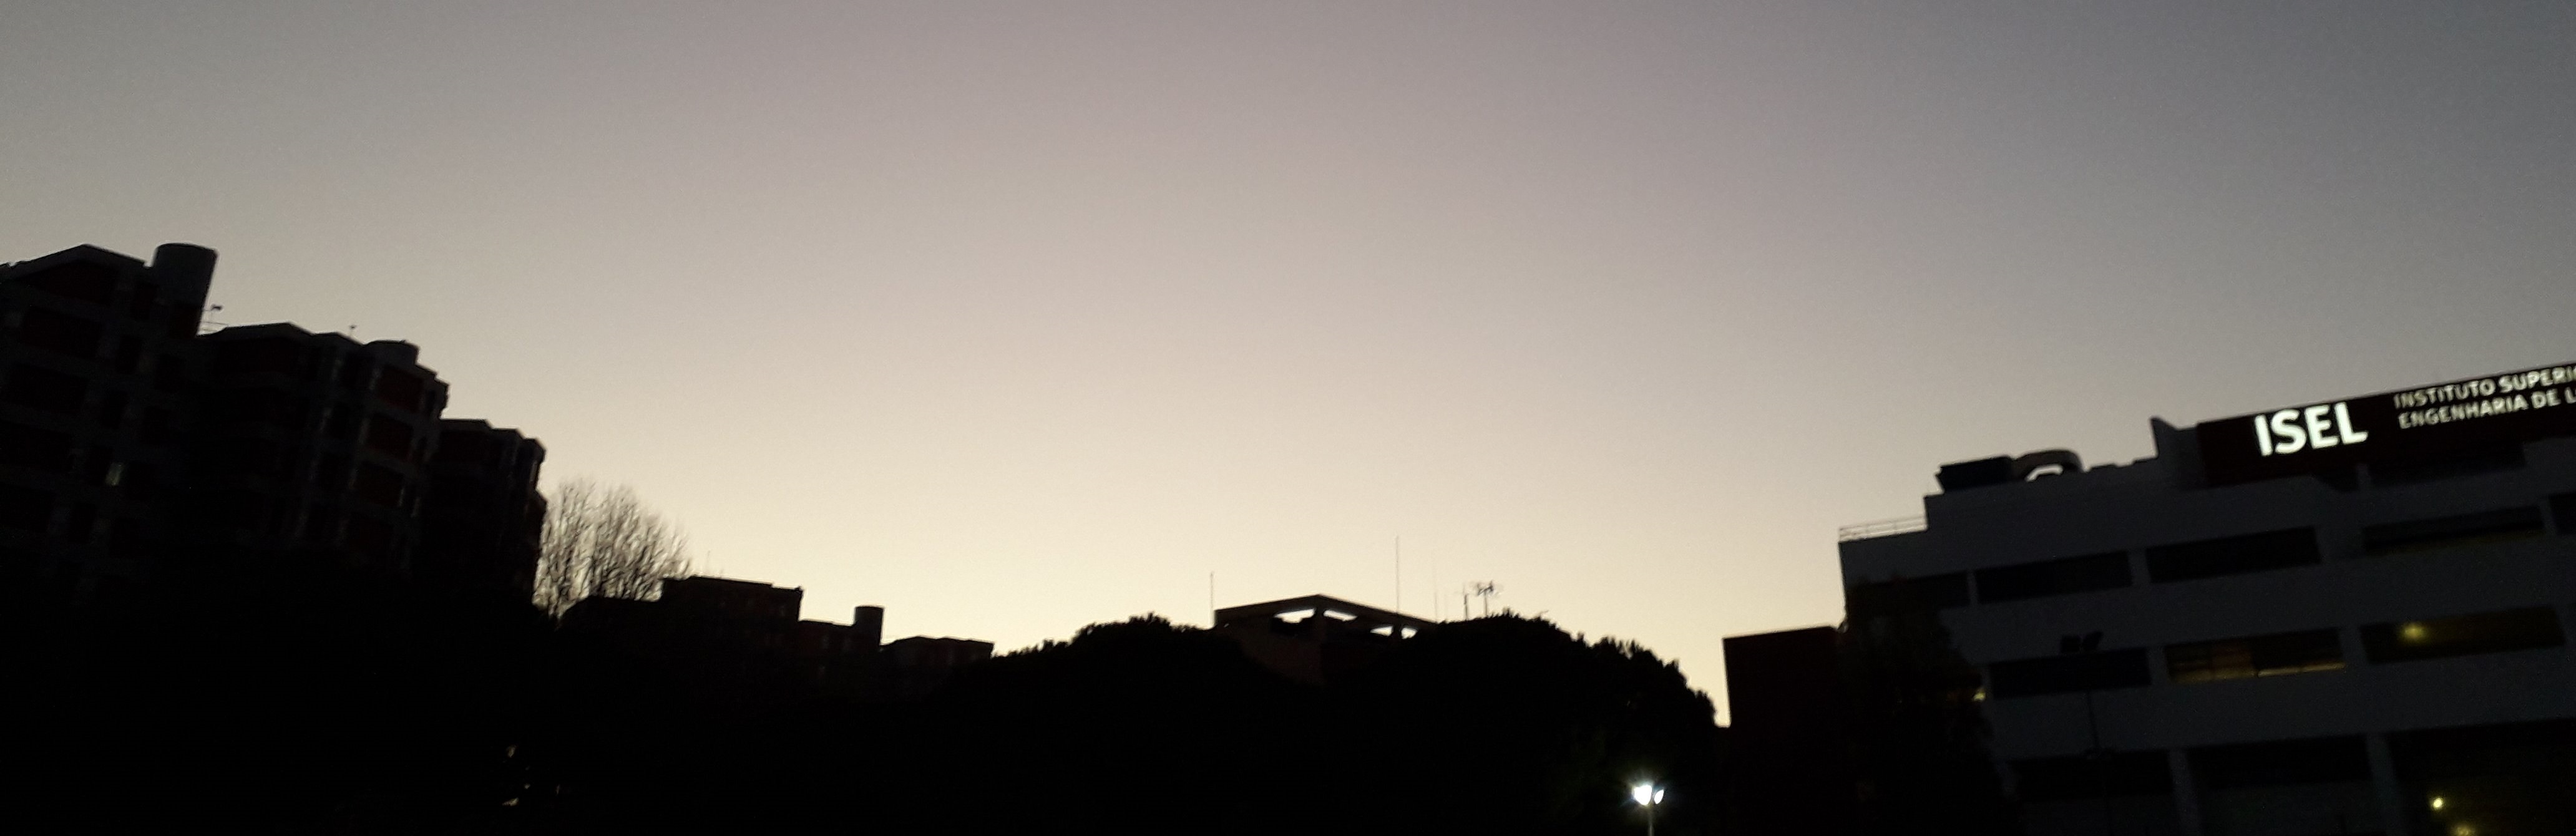
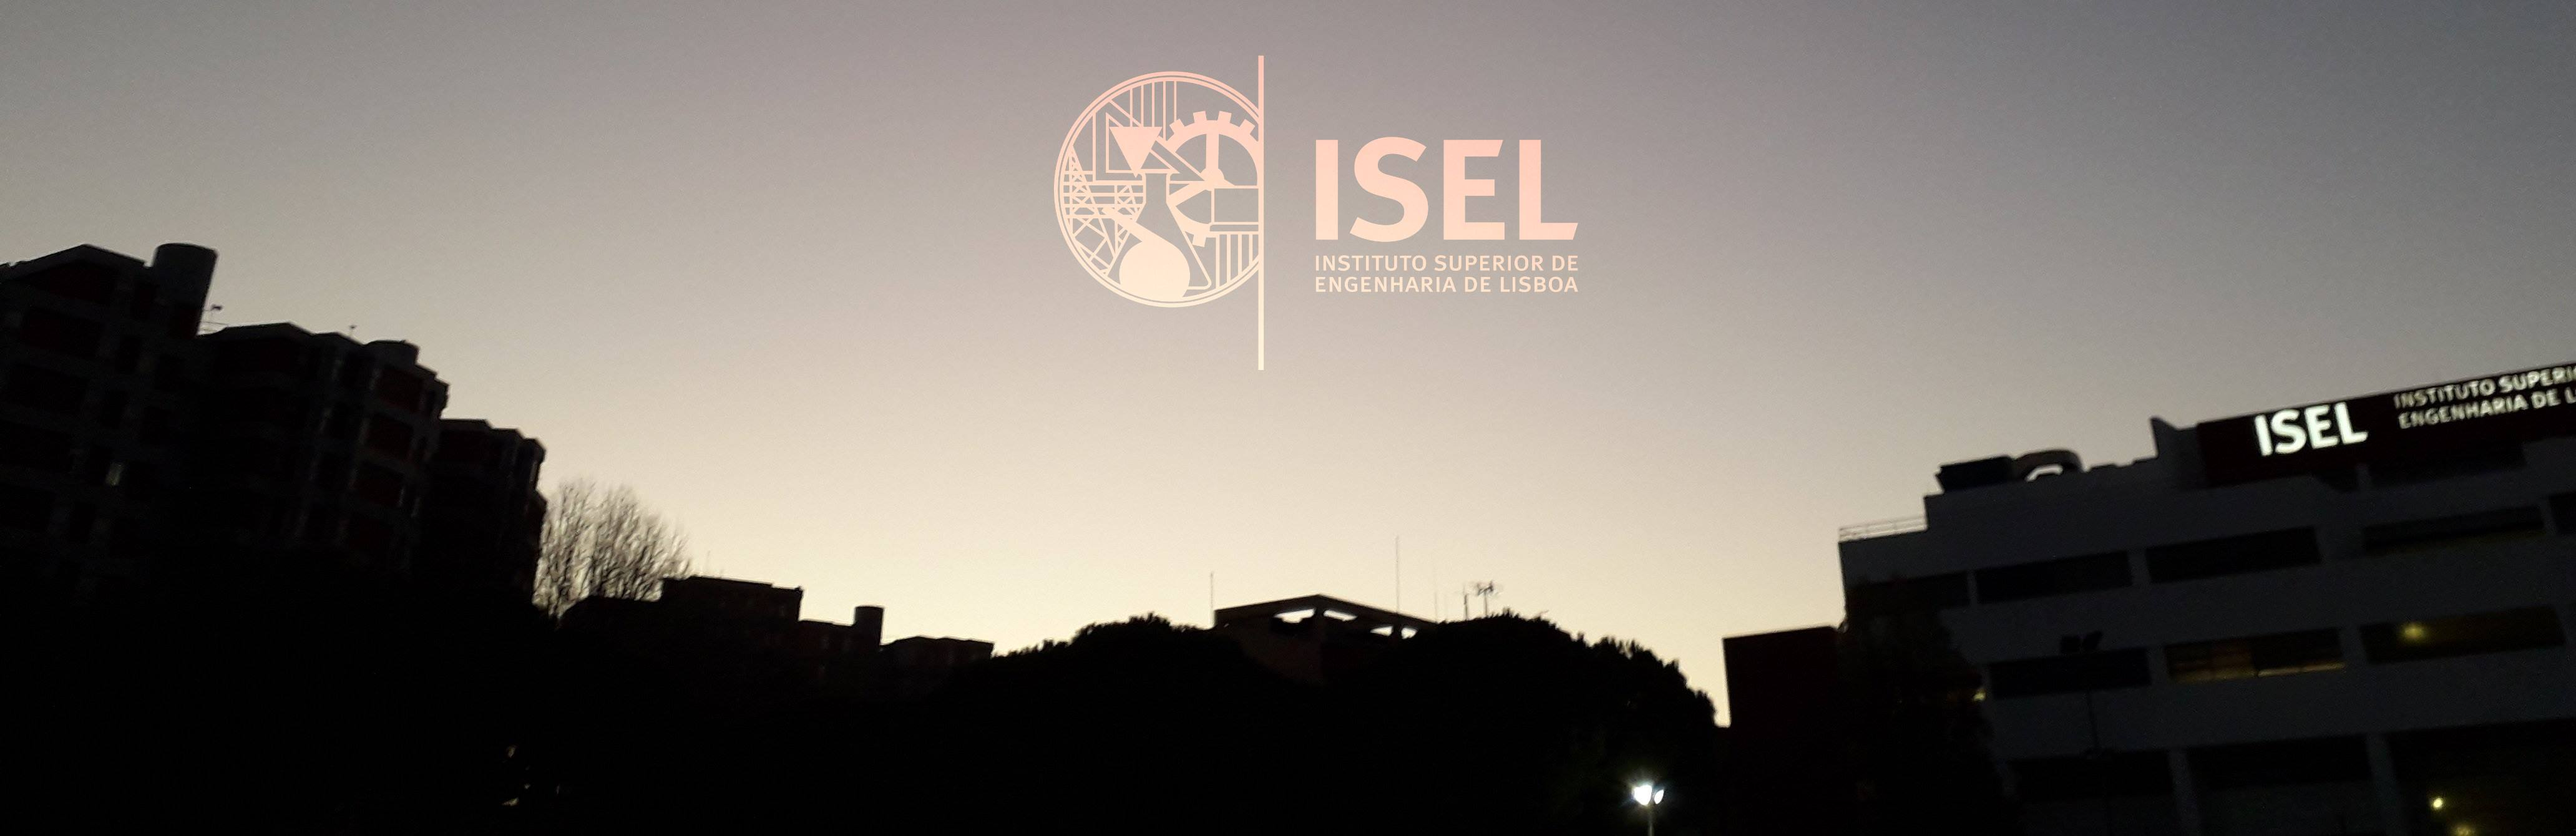
7 - github nao gosta que se use css no markdown...

Changed region(s): [[0.4062, 0.0612, 0.625, 0.3672]]

diff --git a/README.md b/README.md
@@ -4,13 +4,9 @@
 4. Estão à vontade para fazer pull requests
 5. DM para convite de servidores do discord e meme pack
 
-<div style="position: relative; height: 250px;">
-  <img src="Pics/extra/1.jpg" style="position: absolute; top: 0; left: 0; width: 100%; height: 100%; opacity: 0.8;" />
-  
-  <p align="center">
-    <img style="width: 200px; opacity:0.8" src="Pics/logo.png" />
-  </p>
-</div>
+<p align="center">
+    <img style="max-height: 300px" src="Pics/extra/1.jpg" />
+</p>
 
 ## Repos com vários trabalhos feitos
 - https://github.com/sputnikbipbip/ISEL_Projects
